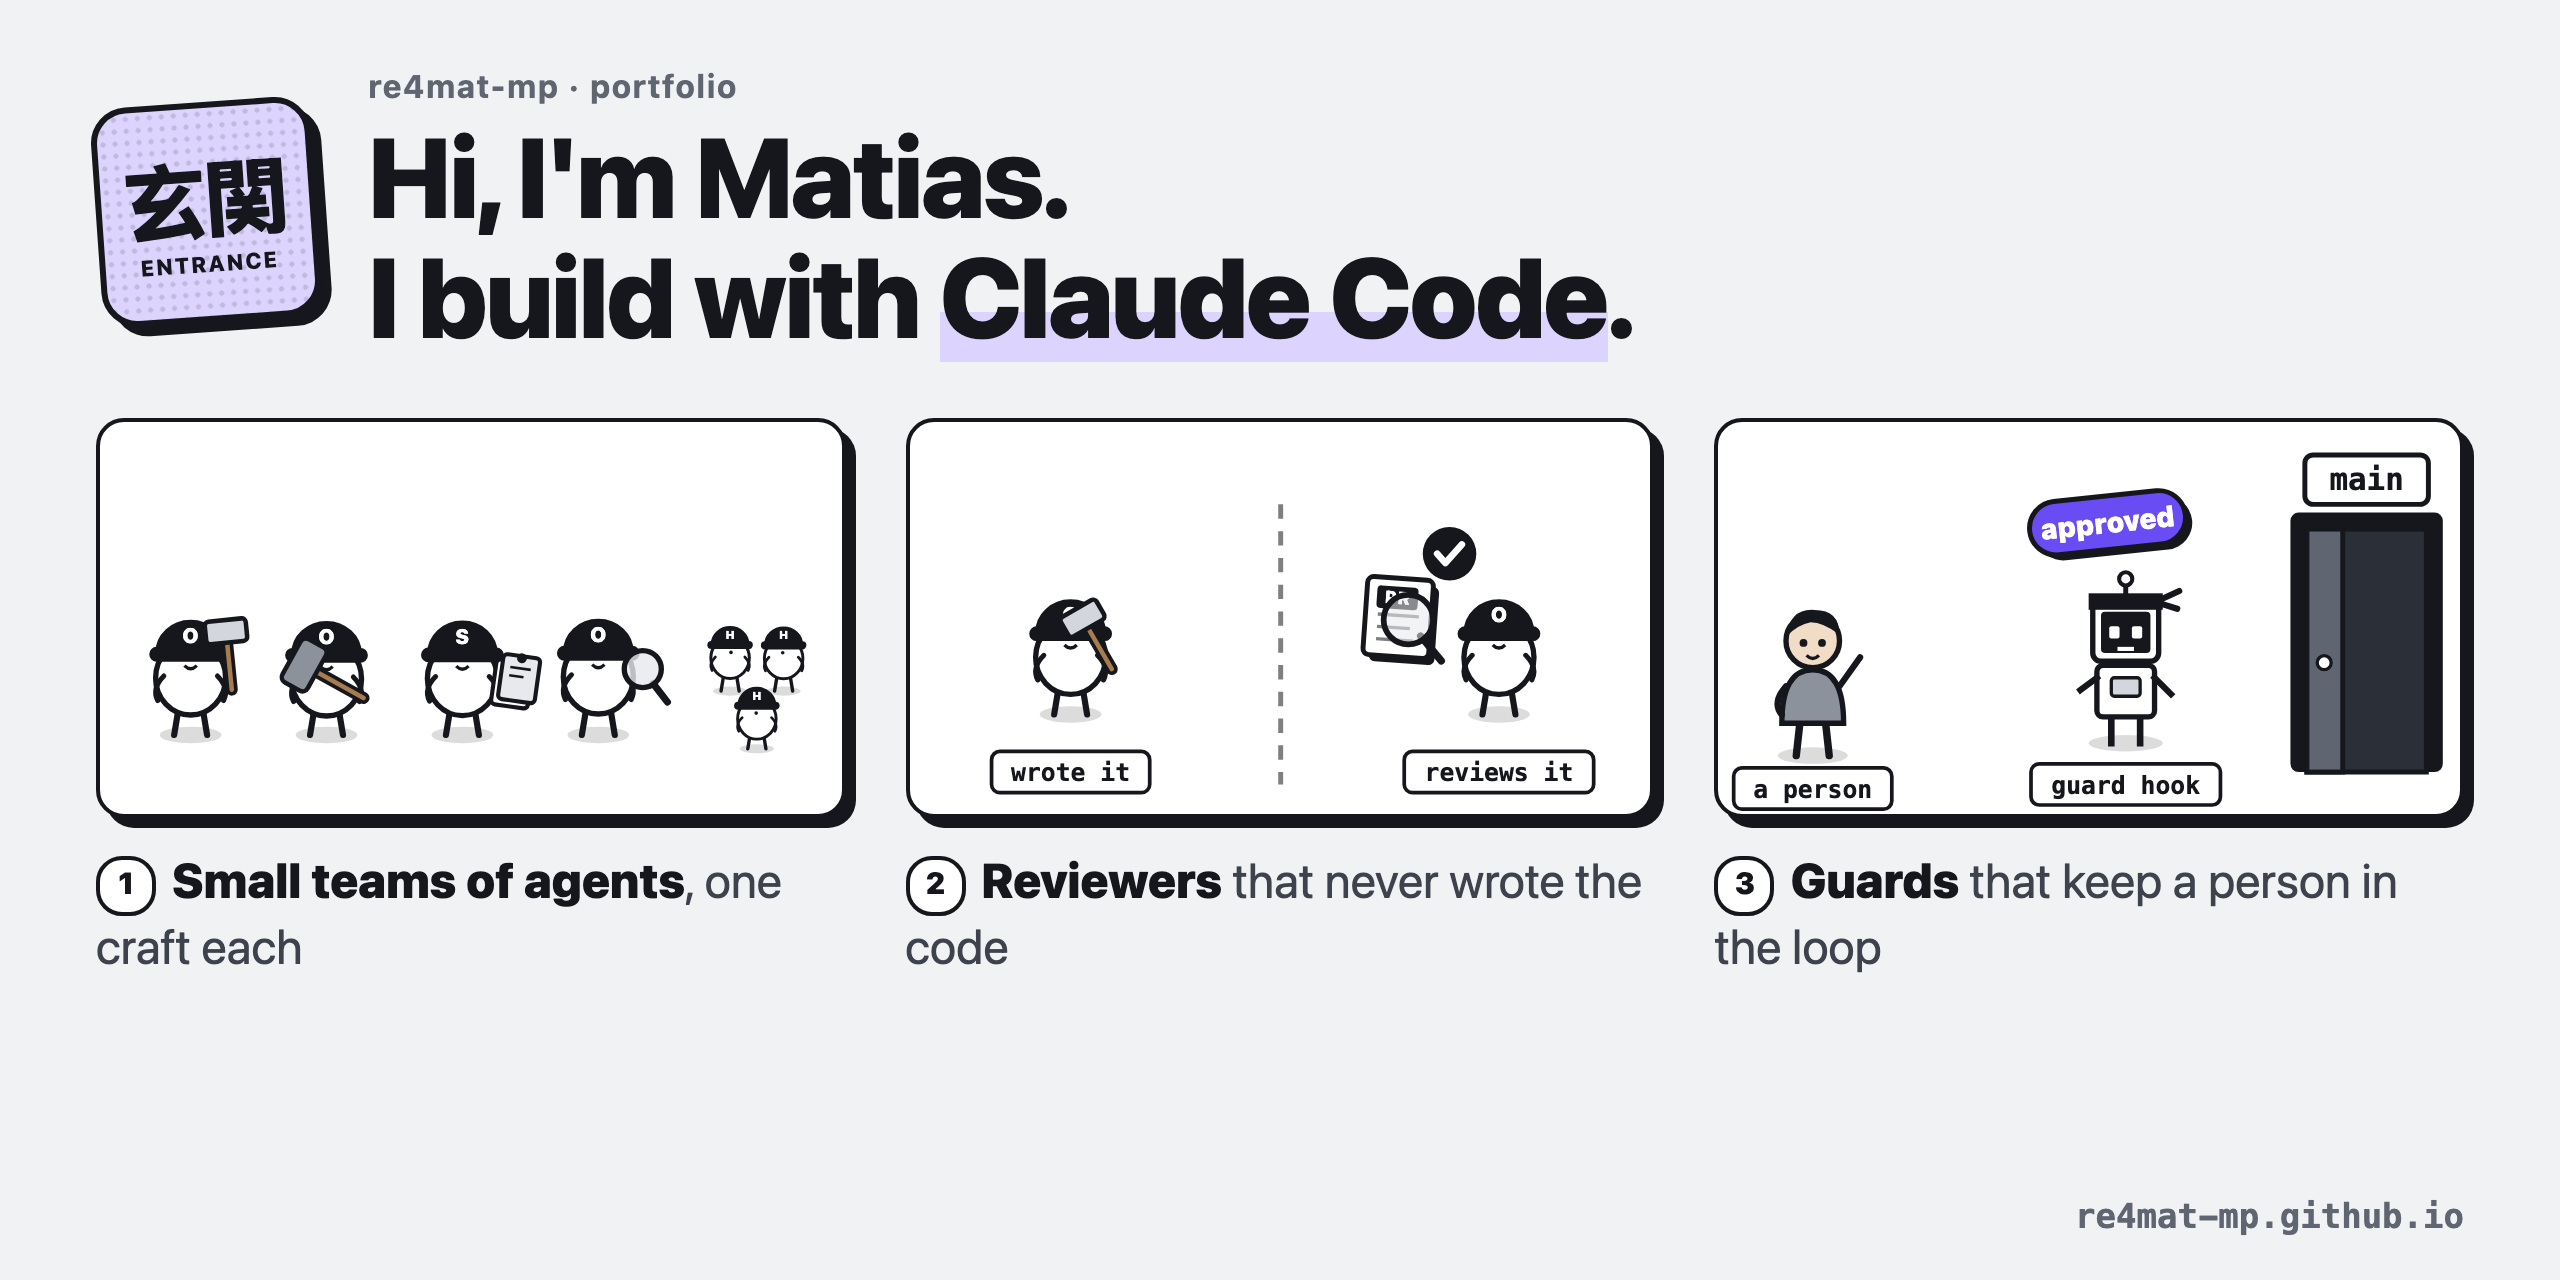
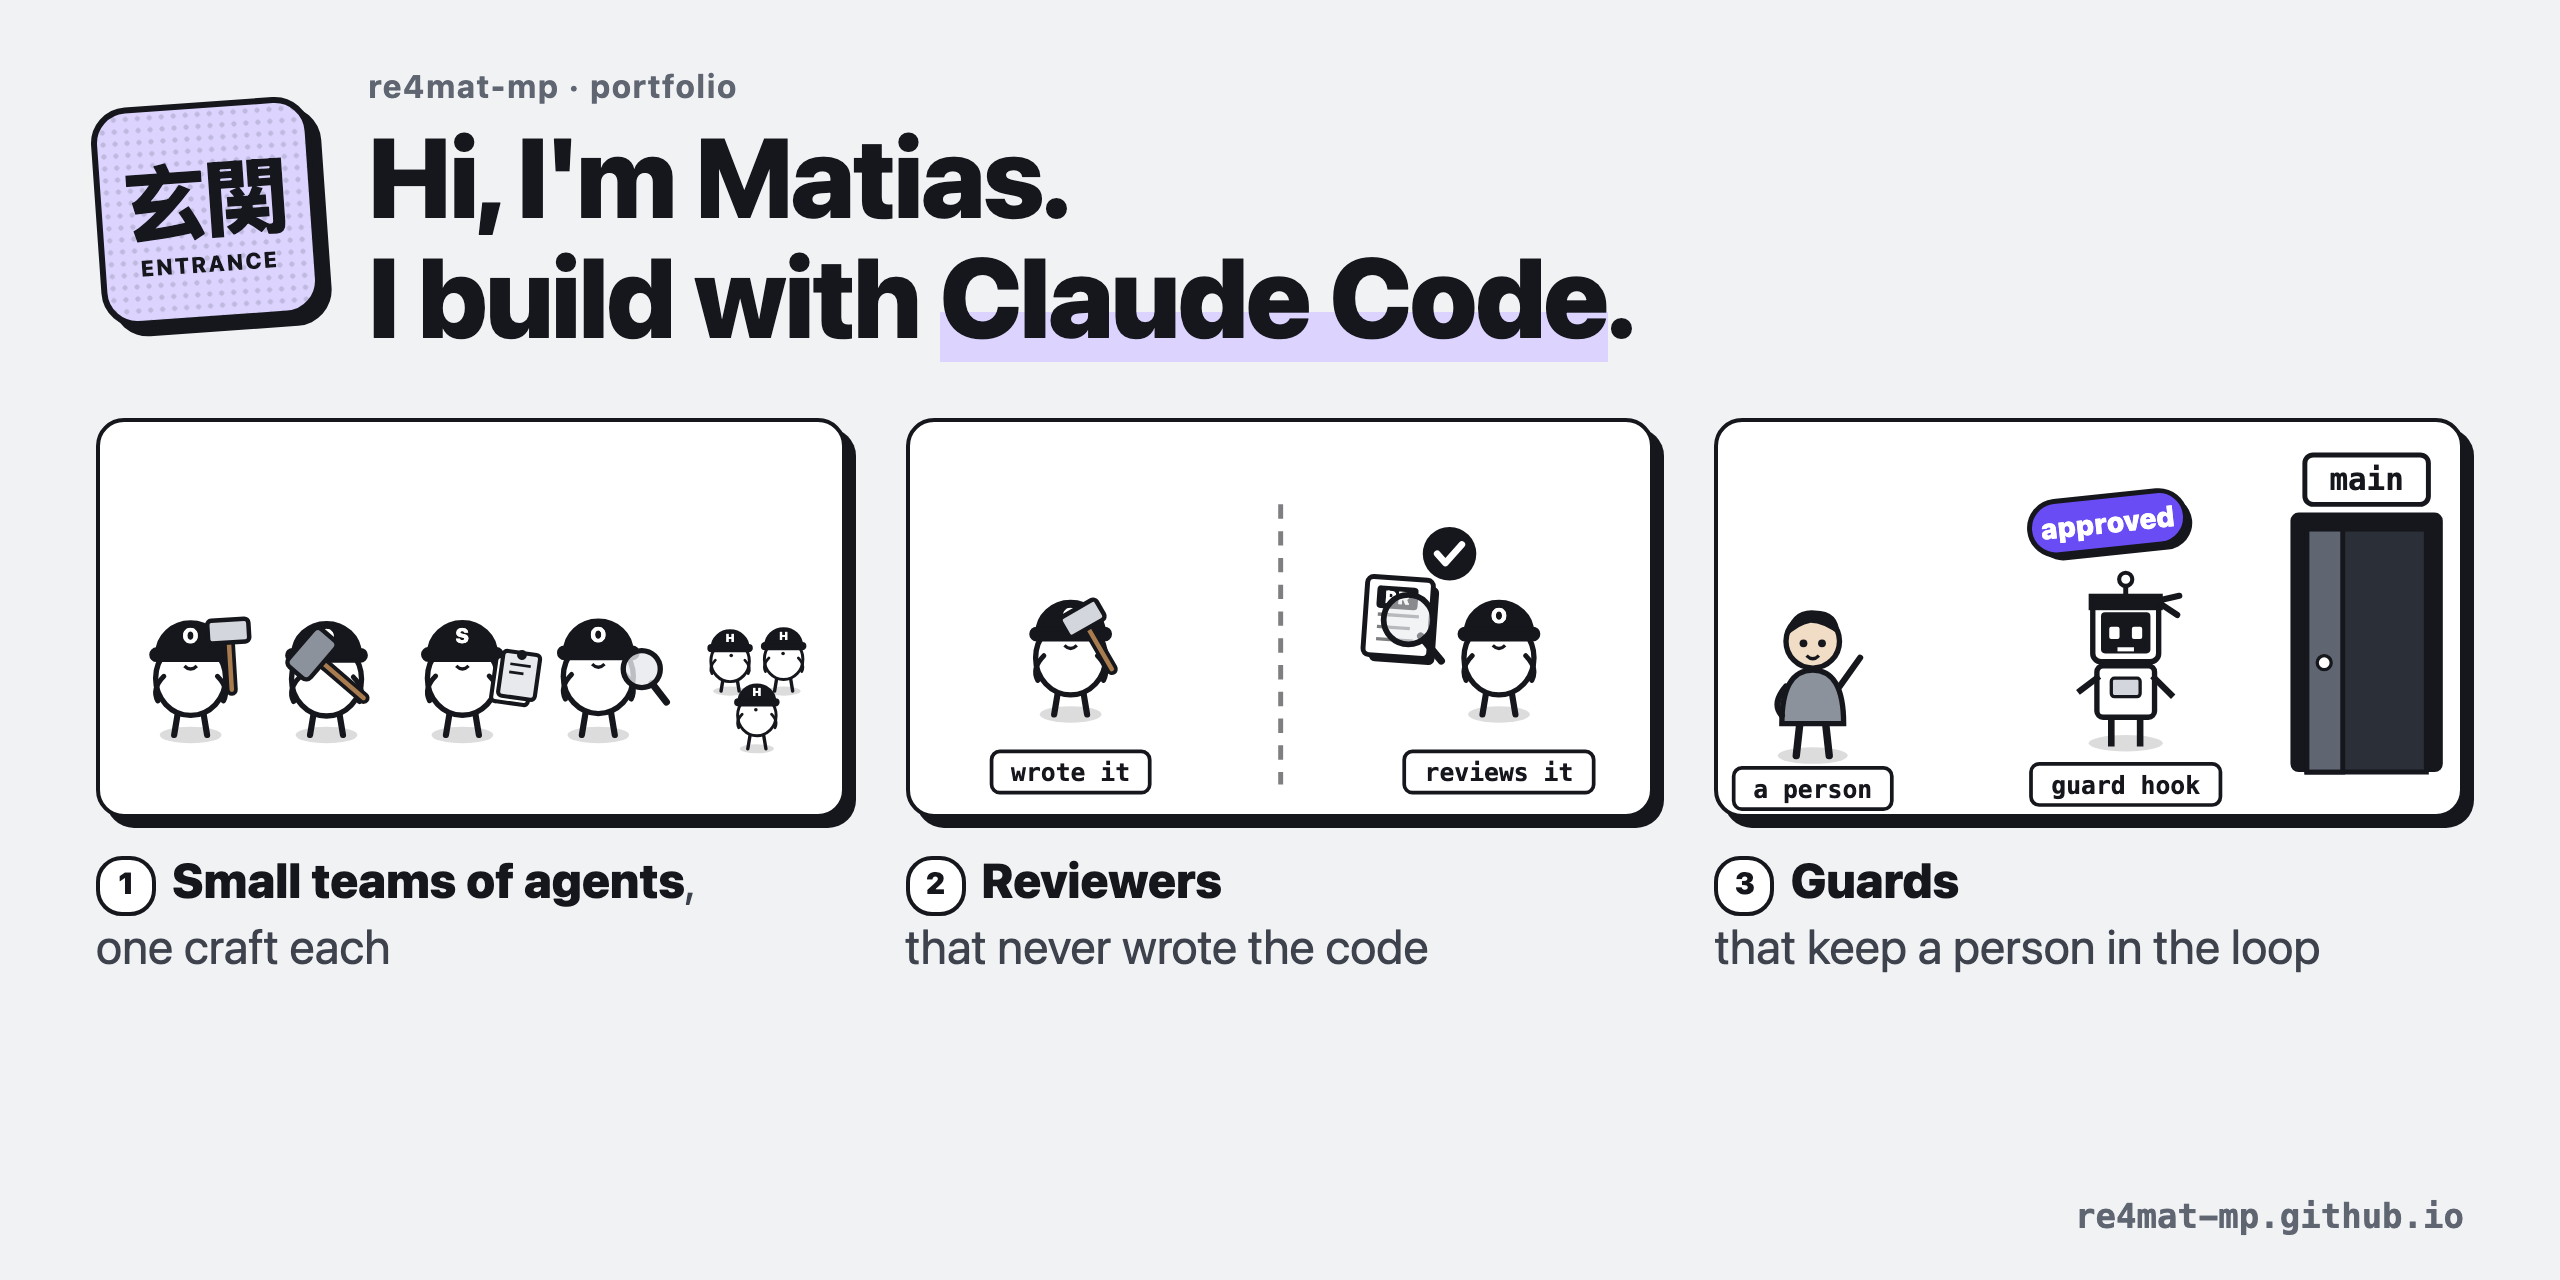
Welcome film: still header, one badge shape for all five pieces, longer read on the list, a character cheers the click

diff --git a/index.html b/index.html
@@ -76,7 +76,7 @@ const PROJECTS = [
     id: 'travel',
     glyph: '旅', glyphLabel: 'JOURNEY',
     title: 'The travel book',
-    line: 'A Kindle travel book written with Claude: the method, on an invented trip',
+    line: 'A Kindle travel book written with Claude: the method, on an invented trip.',
     kicker: 'travel-book-method',
     body: [
       'A travel book you write with Claude, and read on a Kindle. The method, shown on <b>an invented trip</b>: chapters, <b>plates drawn as code</b>, and <b>grey and colour editions</b>.',
@@ -215,11 +215,20 @@ const PROJECTS = [
   .frow .ttl{font-size:26px}
   .frow .ttl .gl{font-size:16px}
   .frow .ln{font-size:18px;margin-top:1px}
+  /* Five rows, one shape: a kanji badge like the 玄関 one, title, one line */
+  .frow{height:60px;margin-top:8px;gap:22px}
+  .frow .fbadge{flex:0 0 96px;height:60px;border-right:2.5px solid var(--ink);display:flex;flex-direction:column;align-items:center;justify-content:center;line-height:1}
+  .frow .fbadge .g{font-size:26px;font-weight:900;letter-spacing:-.02em}
+  .frow .fbadge .k{font-size:10px;font-weight:800;letter-spacing:.07em;margin-top:4px}
+  .frow .ttl{font-size:27px}
+  .frow .ln{font-size:19px;margin-top:1px}
+  .fend .who{position:absolute;left:228px;top:92px;width:120px;height:130px}
   .fend{position:absolute;left:0;right:0;top:250px;text-align:center}
   .fend .open{font-size:58px;font-weight:900;letter-spacing:-.02em}
   .fend .chip{display:inline-block;margin-top:22px;background:var(--acc);color:#fff;border:3px solid var(--ink);border-radius:40px;box-shadow:6px 6px 0 var(--ink);
     padding:12px 34px 14px;font-size:44px;font-weight:800;font-family:var(--mono);letter-spacing:-.01em}
   .fend .sub{font-size:24px;color:var(--ink3);margin-top:30px}
+  body.film .beat figcaption{line-height:1.3}
   .furl{position:absolute;right:48px;bottom:22px;font-size:17px;font-weight:700;color:var(--ink3);font-family:var(--mono)}
   #cursor{position:absolute;left:0;top:0;width:34px;height:44px;pointer-events:none}
 
@@ -264,7 +273,7 @@ const PROJECTS = [
   </div>
   <div class="fonly fpieces" id="fPieces"><div class="k">THE PIECES, IN ORDER</div><div id="fRows"></div></div>
   <div class="fonly fend" id="fEnd"><div class="open">Open the portfolio →</div><div class="chip" id="fChip">re4mat-mp.github.io</div>
-    <div class="sub">Every piece opens: click a card, then its page.</div></div>
+    <div class="sub">Every piece opens: click a card, then its page.</div><svg class="who" id="fWho" viewBox="0 0 120 130" aria-hidden="true"></svg></div>
   <div class="fonly furl" id="fUrl">re4mat-mp.github.io</div>
   <svg class="fonly" id="cursor" viewBox="0 0 34 44"><path d="M3,3 L3,35 L11,28 L17,41 L23,38 L17,25 L28,25 Z" fill="#fff" stroke="#15171C" stroke-width="3" stroke-linejoin="round"/></svg>
 </header>
@@ -330,8 +339,11 @@ grid.innerHTML=PROJECTS.map((p,i)=>`<button class="card" data-id="${p.id}" aria-
   <div class="body"><div class="num">${i+1}</div><div><div class="ttl">${esc(p.title)}<span class="gl">${esc(p.glyph)}</span></div><div class="ln">${esc(p.line)}</div></div></div>
 </button>`).join('');
 document.getElementById('fRows').innerHTML=PROJECTS.map((p,i)=>`<div class="frow" data-i="${i}">
-  <div class="art tone">${p.art&&K.ART[p.art]?`<svg viewBox="0 0 360 190" data-art="${p.art}"></svg>`:`<span class="big">${esc(p.glyph)}</span>`}</div>
-  <div class="num">${i+1}</div><div><div class="ttl">${esc(p.title)}<span class="gl">${esc(p.glyph)}</span></div><div class="ln">${esc(p.line)}</div></div></div>`).join('');
+  <div class="fbadge tone-acc" aria-hidden="true"><span class="g">${esc(p.glyph)}</span><span class="k">${esc(p.glyphLabel||'')}</span></div>
+  <div class="num">${i+1}</div><div><div class="ttl">${esc(p.title)}</div><div class="ln">${esc(p.line)}</div></div></div>`).join('');
+// film: each caption breaks after its bold words, so no line ends on a lone "one" or "the"
+if(FILM) [['Small teams of agents',',','one craft each'],['Reviewers','','that never wrote the code'],['Guards','','that keep a person in the loop']]
+  .forEach(([b,c,rest],i)=>{ document.querySelector('#b'+i+' figcaption').innerHTML=`<span class="n">${i+1}</span><b>${b}</b>${c}<br>${rest}`; });
 
 // ---- the panel
 const dlg=document.getElementById('panel');
@@ -353,32 +365,44 @@ const badge=$('#hero .top .badge'), kick=$('.kick'), l1=$('.l1'), l2=$('.l2');
 const beatEls=[0,1,2].map(i=>document.getElementById('b'+i)), beatSvg=beatEls.map(b=>b.querySelector('svg'));
 const fP=$('#fPieces'), fRows=[...document.querySelectorAll('.frow')], fEnd=$('#fEnd'), fChip=$('#fChip'), fUrl=$('#fUrl'), cur=$('#cursor');
 const artSvgs=[...document.querySelectorAll('svg[data-art]')];
-const STARTS = FILM? [2.0,3.4,4.8] : [1.5,2.3,3.1];
+const STARTS = FILM? [0.2,1.0,1.8] : [1.5,2.3,3.1];
 const set=(el,op,dy=0,sc=1)=>{ el.style.opacity=op.toFixed(3); el.style.transform=(dy||sc!==1)?`translateY(${dy.toFixed(1)}px) scale(${sc})`:''; el.style.visibility=op<=0.001?'hidden':'visible'; };
 const R=K.ramp;
+const fWho=document.getElementById('fWho');
+/* Film timeline (s = film seconds, loop L=23). The header never moves in the film: only the stage below it changes,
+   and every change is a cross-fade, so no frame is empty.
+     0.2–5.8   the three beats draw themselves (beat 3 finishes at 5.8) · held still until 10.9
+     10.9–11.2 beats out, THEN pieces in (never both: no word crosses another) · rows deal 11.35–12.8 · all five still until 17.8
+     17.8–18.1 pieces out, THEN 18.15–18.5 end card in · pointer clicks at 19.9 · held still until 22.4
+     22.4–22.7 end card out, THEN 22.7–23.0 the empty beat frames come back (they are already there at s=0)
+   The GIF starts at s=6.0 (finished welcome), so its first frame is the full picture. */
 function render(t){
-  const s=t;                                              // sequence time
-  const out = FILM? 1-R(s,L-0.45,L-0.05) : 1;            // film: everything fades before the loop restarts
-  set(badge,R(s,0.1,0.5)*out,(1-R(s,0.1,0.5))*10); badge.style.transform+=' rotate(-4deg)';
-  set(kick,R(s,0.3,0.7)*out); set(l1,R(s,0.4,0.85)*out,(1-R(s,0.4,0.85))*14); set(l2,R(s,0.95,1.4)*out,(1-R(s,0.95,1.4))*14);
-  const beatsOut = FILM? 1-R(s,11.4,11.8) : 1;
-  beatEls.forEach((el,i)=>{ const k=R(s,STARTS[i],STARTS[i]+0.45);
-    set(el,k*beatsOut*out,(1-k)*18);
-    const u=Math.max(0,s-STARTS[i]-0.2);
-    beatSvg[i].innerHTML=K.beats[i](Math.min(u,K.BEAT_END[i]+0.01),t); });
-  artSvgs.forEach(sv=>{ sv.innerHTML=K.ART[sv.dataset.art](t); });
-  if(FILM){
-    const pOut=1-R(s,17.8,18.2);
-    set(fP,R(s,11.85,12.2)*pOut);
-    fRows.forEach((r,i)=>{ const k=R(s,12.0+0.6*i,12.45+0.6*i); set(r,k,(1-k)*22); });
-    set(fEnd,R(s,18.35,18.8)*out,(1-R(s,18.35,18.8))*16);
-    set(fUrl,(1-R(s,18.0,18.3))*R(s,0.3,0.7)*out);
-    const press=R(s,20.0,20.12)*(1-R(s,20.25,20.4));
-    fChip.style.transform=`scale(${(1-0.05*press).toFixed(3)})`; fChip.style.boxShadow=`${6-4*press}px ${6-4*press}px 0 #15171C`;
-    // the pointer: comes in from the lower right, lands on the chip, clicks
-    const km=R(s,19.0,19.9), cx=1120-km*(1120-760), cy=600-km*(600-400);
-    set(cur,R(s,18.9,19.1)*out); cur.style.transform=`translate(${cx.toFixed(1)}px,${cy.toFixed(1)}px) scale(${(1-0.1*press).toFixed(3)})`;
+  const s=t;
+  if(!FILM){
+    set(badge,R(s,0.1,0.5),(1-R(s,0.1,0.5))*10); badge.style.transform+=' rotate(-4deg)';
+    set(kick,R(s,0.3,0.7)); set(l1,R(s,0.4,0.85),(1-R(s,0.4,0.85))*14); set(l2,R(s,0.95,1.4),(1-R(s,0.95,1.4))*14);
+    beatEls.forEach((el,i)=>{ const k=R(s,STARTS[i],STARTS[i]+0.45); set(el,k,(1-k)*18);
+      const u=Math.max(0,s-STARTS[i]-0.2); beatSvg[i].innerHTML=K.beats[i](Math.min(u,K.BEAT_END[i]+0.01),t); });
+    artSvgs.forEach(sv=>{ sv.innerHTML=K.ART[sv.dataset.art](t); });
+    return;
   }
+  set(badge,1); badge.style.transform='rotate(-4deg)'; set(kick,1); set(l1,1); set(l2,1);
+  const beatsIn = Math.max(1-R(s,10.9,11.2), R(s,22.7,23.0));          // frames + captions: out at 11, back during the seam
+  beatEls.forEach((el,i)=>{ set(el,beatsIn);
+    const u = s>22.0? 0 : Math.max(0,s-STARTS[i]-0.2);                    // drawings start empty again after the seam
+    beatSvg[i].innerHTML=K.beats[i](Math.min(u,K.BEAT_END[i]+0.01),t); });
+  const pOut=1-R(s,17.8,18.1);
+  set(fP,R(s,11.25,11.55)*pOut);
+  fRows.forEach((r,i)=>{ const k=R(s,11.35+0.25*i,11.8+0.25*i); set(r,k*pOut,(1-k)*16); });
+  const endK=R(s,18.15,18.5)*(1-R(s,22.4,22.7));
+  set(fEnd,endK,(1-R(s,18.15,18.5))*12);
+  set(fUrl,Math.max(1-R(s,17.8,18.1), R(s,22.7,23.0)));                 // the corner URL steps aside while the chip shows it
+  const press=R(s,19.9,20.02)*(1-R(s,20.15,20.3));
+  fChip.style.transform=`scale(${(1-0.05*press).toFixed(3)})`; fChip.style.boxShadow=`${6-4*press}px ${6-4*press}px 0 #15171C`;
+  const km=R(s,18.8,19.7), cx=1120-km*(1120-760), cy=600-km*(600-400);
+  set(cur,R(s,18.6,18.8)*(1-R(s,22.4,22.7))); cur.style.transform=`translate(${cx.toFixed(1)}px,${cy.toFixed(1)}px) scale(${(1-0.1*press).toFixed(3)})`;
+  // the round agent on the end card: waits, then cheers from the click until the card leaves
+  fWho.innerHTML=K.worker(60,62,t,{hat:'O',s:1.7,pose:(s>20.0&&s<22.7)?'cheer':'idle',look:(s<19.9?2.5:0)});
 }
 const reduce=matchMedia('(prefers-reduced-motion: reduce)').matches;
 window.__seek=t=>render(t);

diff --git a/kit.js b/kit.js
@@ -162,7 +162,7 @@ function beatGuard(u,t){ // a PR reaches main; the guard says wait; a person app
   const k1=ramp(u,0,0.55), k2=ramp(u,3.0,3.7);
   let px=96+k1*44 + k2*(316-140), op2=1-ramp(u,3.55,3.8);
   if(op2>0) g+=`<g opacity="${r2(op2)}">`+pr(px,146,{rot:k2>0?0:-4})+`</g>`;
-  const wait=u>0.55&&u<2.35;
+  const wait=u>0.55&&u<2.25;   // "wait" is gone the moment "approved" starts, so the two stickers never sit on top of each other
   g+=bot(198,122,t,{arm:wait?1:0});
   g+=tag(198,166,'guard hook');
   if(wait) g+=`<g transform="translate(150,40) rotate(-6)"><rect x="3" y="3" width="64" height="26" rx="5" fill="${INK}"/><rect width="64" height="26" rx="5" fill="#fff" stroke="${INK}" stroke-width="2.4"/><text x="32" y="18.5" text-anchor="middle" font-size="14" font-weight="900" font-style="italic" font-family="${F}" fill="${INK}">wait</text></g>`;
